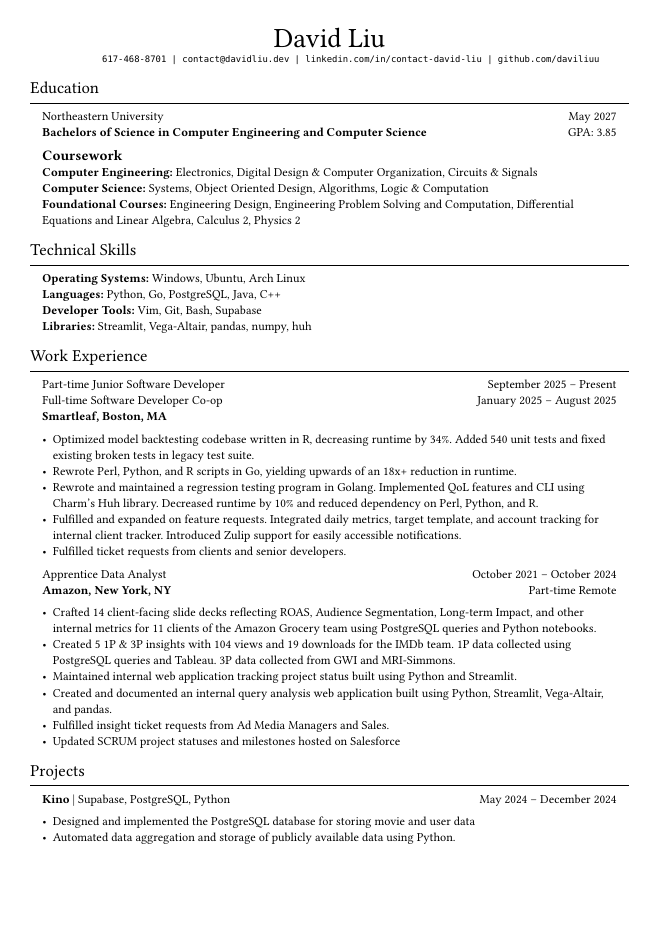
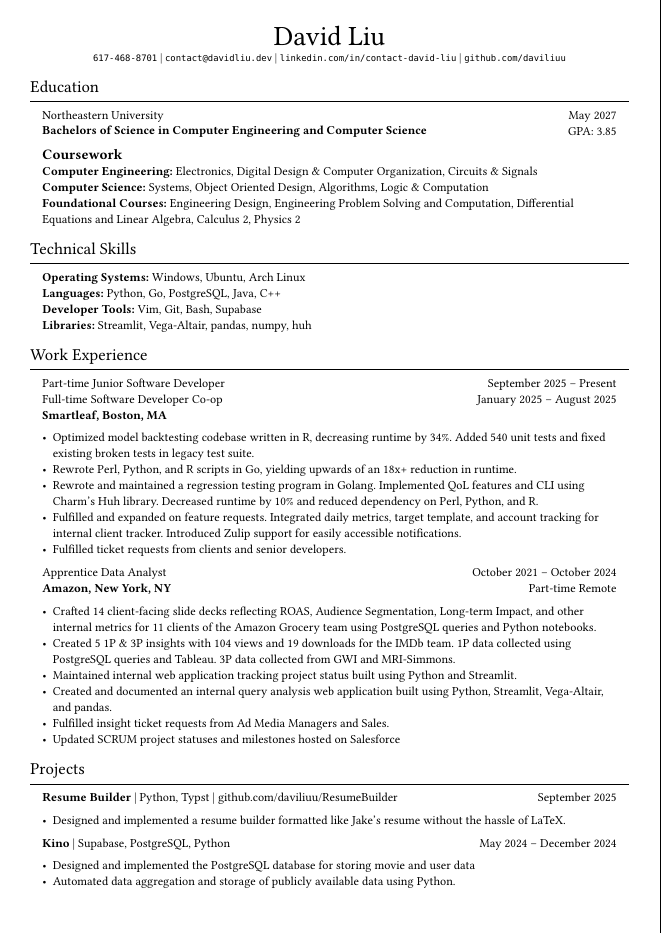
ResumeBuilder: Fix for header centering, README update, template config ready, projects now support links.

Changed region(s): [[0.0606, 0.0311, 0.9394, 0.8081], [0.0606, 0.8392, 0.9394, 0.9636]]

diff --git a/src/resume/header.py b/src/resume/header.py
@@ -10,13 +10,14 @@ class Header(ResumePart):
         self.subheaders = config_map["subheaders"]
 
     def to_typst_str(self) -> str:
-        header = f"""
-        #set align(center)
-        #text({const.NAME_SIZE})[{self.name}]
-        #text({const.CONTACT})[#raw("
-        """
+        content = ""
         for idx, subheader in enumerate(self.subheaders):
             if idx > 0:
-                header += " | "
-            header += subheader
-        return header + "\")]"
+                content += " | "
+            content += f"""#raw("{subheader}")"""
+
+        return f"""
+        #set align(center)
+        #text({const.NAME_SIZE})[{self.name}] \\
+        #text({const.CONTACT})[{content}]
+        """

diff --git a/src/resume/projects.py b/src/resume/projects.py
@@ -14,13 +14,15 @@ class Projects(ResumePart):
             tools = project["tools"]
             time = project["time"]
             items = project["items"]
+            link = "" if "link" not in project else f"""| {project["link"]}"""
 
             content += f"""
             #grid(
-                columns: (6fr, 1fr, 3fr),
+                columns: (6.5fr, 0.5fr, 3fr),
                 [
                      #text(weight: "bold")[{name}]
                      #text()[ | {", ".join(tools)}]
+                     #text()[{link}]
                 ],
                 text()[],
                 [
